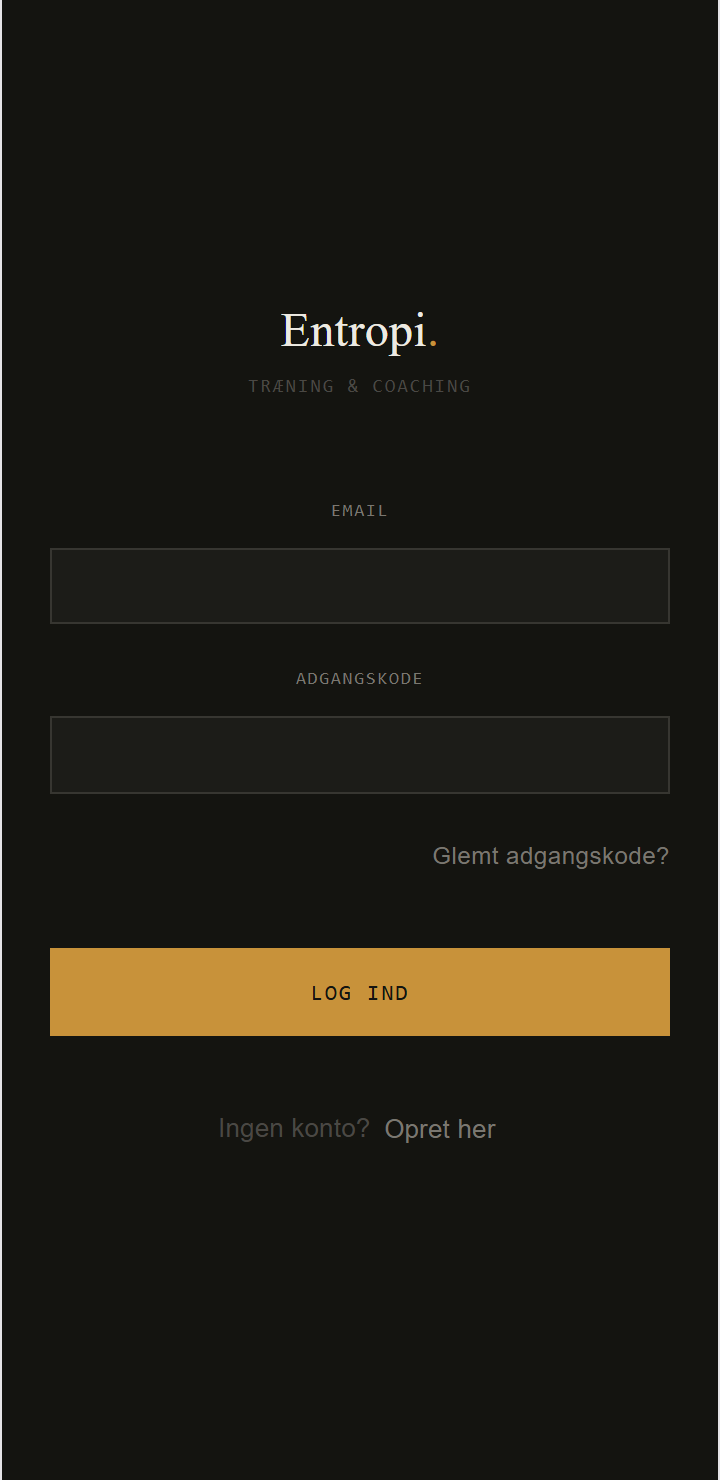
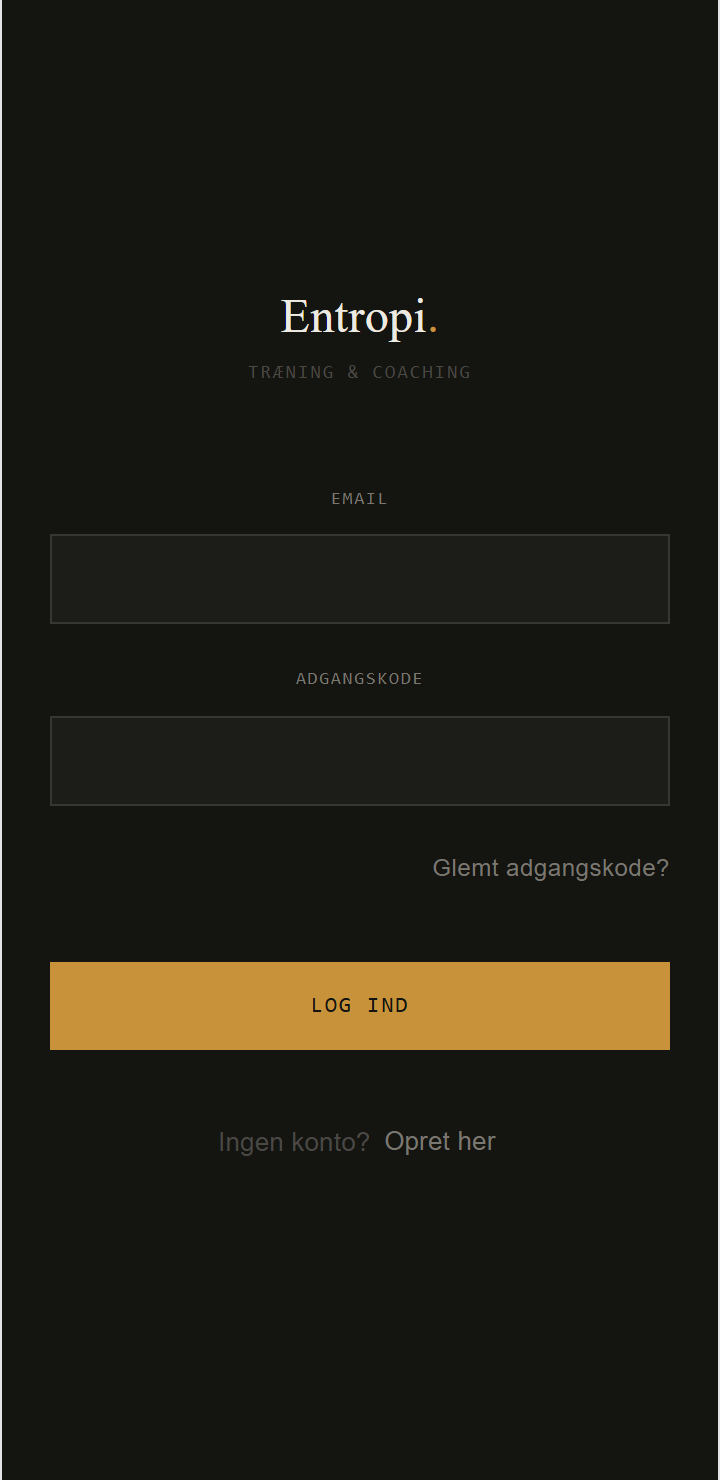
fix: loeft soevntimer-feltet og logins email/adgangskode til 44px (ordre 126 · commit 3)
Kun padding aendret, ikke skrift eller layout - fontStoerrelse, farver og
placering er uaendrede:
- src/Auth.jsx: email- og adgangskode-feltets lodrette padding 0.65rem ->
  0.85rem (340x39px -> ~45px paa iPhone 13/Android).
- src/AthleteView.jsx: check-in'ens soevntimer-felt (placeholder "timer")
  0.5rem -> 0.7rem lodret (90x39px -> ~45px).
- scripts/maal-app.mjs: check-in-harnessens kopi af samme inputstil holdt i
  sync, saa maal:app rent faktisk maaler den aendrede kode.

npm run maal:app: 0 trykflader under 44px paa alle tre profiler for login,
dagens pas, saet-logger, opvarmning og check-in. Eneste tilbagevaerende
"trykflader<44px" er Desktop::Videocoach-forside (3, uaendret) - Bhishaks
desktop-knapper, som ordren undtager. Foer/efter-skaermbilleder og tal i
outputs/maal-app/EFTER.md.

Claude-Session: https://claude.ai/code/session_01HdhD2yFFn1MSkH6a3mDiab

diff --git a/src/AthleteView.jsx b/src/AthleteView.jsx
@@ -4031,7 +4031,7 @@ export default function AthleteView({ session, onExitPreview, role, coachAthlete
                       type="number" min="0" max="24" step="0.5" placeholder="timer"
                       value={readinessInput.sleep}
                       onChange={e => setReadinessInput(p => ({ ...p, sleep: e.target.value }))}
-                      style={{ ...s.fieldInput, maxWidth: '90px', fontSize: '1.1rem', padding: '0.5rem 0.6rem', textAlign: 'center' }}
+                      style={{ ...s.fieldInput, maxWidth: '90px', fontSize: '1.1rem', padding: '0.7rem 0.6rem', textAlign: 'center' }}
                     />
                     <span style={{ fontFamily: "'IBM Plex Mono', monospace", fontSize: '0.62rem', color: '#7a7770', letterSpacing: '0.06em' }}>timer</span>
                   </div>

diff --git a/src/Auth.jsx b/src/Auth.jsx
@@ -141,7 +141,7 @@ export default function Auth() {
                 fontFamily: "'IBM Plex Sans', sans-serif",
                 fontSize: '0.9rem',
                 fontWeight: 300,
-                padding: '0.65rem 0.85rem',
+                padding: '0.85rem 0.85rem',
                 outline: 'none',
               }}
             />
@@ -174,7 +174,7 @@ export default function Auth() {
                   fontFamily: "'IBM Plex Sans', sans-serif",
                   fontSize: '0.9rem',
                   fontWeight: 300,
-                  padding: '0.65rem 0.85rem',
+                  padding: '0.85rem 0.85rem',
                   outline: 'none',
                 }}
               />

diff --git a/outputs/maal-app/EFTER.md b/outputs/maal-app/EFTER.md
@@ -1,37 +1,35 @@
 # Måling efter (Ordre 123)
 
-Målt 2026-09-12 07:28 UTC, 3 profiler × 6 skærme, med attrap-data (ingen atletdata).
+Målt 2026-09-12 13:12 UTC, 3 profiler × 6 skærme, med attrap-data (ingen atletdata).
 
-**Den autentificerede skal** (main + AthleteView-chunk — det SPA'en henter uanset hvilken atlet-fane der vises, "dagens pas"/"sæt-logger"/"opvarmning"/"check-in" deler denne): 658 KB (index-octlZmVS.js, AthleteView-DgDxmxYE.js, index-nqMpL4T3.css). Login og videocoach-forsiden er selvstændige og har deres egen sidevægt i tabellen nedenfor.
+**Den autentificerede skal** (main + AthleteView-chunk — det SPA'en henter uanset hvilken atlet-fane der vises, "dagens pas"/"sæt-logger"/"opvarmning"/"check-in" deler denne): 658 KB (index-CYhpEthV.js, AthleteView-9dvUZ7Z_.js, index-nqMpL4T3.css). Login og videocoach-forsiden er selvstændige og har deres egen sidevægt i tabellen nedenfor.
 
 _Ærlig grænse: "Dagens pas", "Sæt-logger", "Opvarmning" og "Check-in" er isolerede harnesses (ægte src/repsPrescription.js + src/warmup.js + ægte inline-stilarter kopieret fra AthleteView.jsx, syntetiske øvelser) — AthleteView.jsx kræver en levende Supabase-session for slet at boote (se scripts/verify-athlete-reps-per-set-mobile.mjs). Deres "sidevægt"/Perf-tal i tabellen er harness-isolerede, ikke den ægte AthleteView-bundtvægt (se skal-tallet ovenfor). Login og videocoach-forsiden er den ægte, uændrede app._
 
 | Profil | Skærm | Perf | A11y | Sidevægt (KB) | Axe-fejl | Trykflader <44px | Vandret scroll | Tekst ud af boks |
 | --- | --- | --- | --- | --- | --- | --- | --- | --- |
-| iPhone 13 | Login | 65 | 87 | 415 | 1 | 2 | nej | 0 |
+| iPhone 13 | Login | 65 | 87 | 415 | 1 | 0 | nej | 0 |
 | iPhone 13 | Dagens pas | 100 | 91 | 8 | 1 | 0 | nej | 0 |
 | iPhone 13 | Sæt-logger (interval-reps) | 100 | 92 | 8 | 1 | 0 | nej | 0 |
 | iPhone 13 | Opvarmning | 100 | 86 | 14 | 1 | 0 | nej | 0 |
-| iPhone 13 | Videocoach-forside (uden video) | 71 | 93 | 537 | 0 | 0 | nej | 0 |
-| iPhone 13 | Check-in (parathed) | 100 | 87 | 14 | 1 | 1 | nej | 0 |
-| Android 360×740 | Login | 73 | 87 | 415 | 1 | 2 | nej | 0 |
+| iPhone 13 | Videocoach-forside (uden video) | 71 | 93 | 541 | 0 | 0 | nej | 0 |
+| iPhone 13 | Check-in (parathed) | 99 | 87 | 14 | 1 | 0 | nej | 0 |
+| Android 360×740 | Login | 74 | 87 | 415 | 1 | 0 | nej | 0 |
 | Android 360×740 | Dagens pas | 100 | 91 | 8 | 1 | 0 | nej | 0 |
 | Android 360×740 | Sæt-logger (interval-reps) | 100 | 92 | 8 | 1 | 0 | nej | 0 |
 | Android 360×740 | Opvarmning | 100 | 86 | 14 | 1 | 0 | nej | 0 |
-| Android 360×740 | Videocoach-forside (uden video) | 71 | 93 | 537 | 0 | 0 | nej | 0 |
-| Android 360×740 | Check-in (parathed) | 100 | 87 | 14 | 1 | 1 | nej | 0 |
+| Android 360×740 | Videocoach-forside (uden video) | 71 | 93 | 541 | 0 | 0 | nej | 0 |
+| Android 360×740 | Check-in (parathed) | 100 | 87 | 14 | 1 | 0 | nej | 0 |
 | Desktop 1280×800 | Login | — | — | 415 | 1 | 0 | nej | 0 |
 | Desktop 1280×800 | Dagens pas | — | — | 8 | 1 | 0 | nej | 0 |
 | Desktop 1280×800 | Sæt-logger (interval-reps) | — | — | 8 | 1 | 0 | nej | 0 |
 | Desktop 1280×800 | Opvarmning | — | — | 14 | 1 | 0 | nej | 0 |
-| Desktop 1280×800 | Videocoach-forside (uden video) | — | — | 547 | 0 | 3 | nej | 0 |
-| Desktop 1280×800 | Check-in (parathed) | — | — | 14 | 1 | 1 | nej | 0 |
+| Desktop 1280×800 | Videocoach-forside (uden video) | — | — | 551 | 0 | 3 | nej | 0 |
+| Desktop 1280×800 | Check-in (parathed) | — | — | 14 | 1 | 0 | nej | 0 |
 
 ## Detaljer (trykflader og axe-fund under 44px / kritisk / alvorlig)
 
 ### iPhone 13 · Login
-- Trykflade: "(uden tekst)" — 340×39px
-- Trykflade: "(uden tekst)" — 340×39px
 - Axe (serious): color-contrast — Elements must meet minimum color contrast ratio thresholds (6 elementer)
 
 ### iPhone 13 · Dagens pas
@@ -44,12 +42,9 @@ _Ærlig grænse: "Dagens pas", "Sæt-logger", "Opvarmning" og "Check-in" er isol
 - Axe (serious): color-contrast — Elements must meet minimum color contrast ratio thresholds (11 elementer)
 
 ### iPhone 13 · Check-in (parathed)
-- Trykflade: "timer" — 90×39px
 - Axe (serious): color-contrast — Elements must meet minimum color contrast ratio thresholds (21 elementer)
 
 ### Android 360×740 · Login
-- Trykflade: "(uden tekst)" — 310×39px
-- Trykflade: "(uden tekst)" — 310×39px
 - Axe (serious): color-contrast — Elements must meet minimum color contrast ratio thresholds (6 elementer)
 
 ### Android 360×740 · Dagens pas
@@ -62,7 +57,6 @@ _Ærlig grænse: "Dagens pas", "Sæt-logger", "Opvarmning" og "Check-in" er isol
 - Axe (serious): color-contrast — Elements must meet minimum color contrast ratio thresholds (11 elementer)
 
 ### Android 360×740 · Check-in (parathed)
-- Trykflade: "timer" — 90×39px
 - Axe (serious): color-contrast — Elements must meet minimum color contrast ratio thresholds (21 elementer)
 
 ### Desktop 1280×800 · Login
@@ -83,27 +77,26 @@ _Ærlig grænse: "Dagens pas", "Sæt-logger", "Opvarmning" og "Check-in" er isol
 - Trykflade: "Eksport" — 78×36px
 
 ### Desktop 1280×800 · Check-in (parathed)
-- Trykflade: "timer" — 90×39px
 - Axe (serious): color-contrast — Elements must meet minimum color contrast ratio thresholds (21 elementer)
 
 
 ## Før → efter
 
-- **iPhone 13::Login**: perf 66 → 65, a11y 75 → 87, sidevægt 415 KB, axe-fejl 2 → 1, trykflader<44px 3 → 2
+- **iPhone 13::Login**: perf 66 → 65, a11y 75 → 87, sidevægt 415 KB, axe-fejl 2 → 1, trykflader<44px 3 → 0
 - **iPhone 13::Dagens pas**: perf 100, a11y 91, sidevægt 8 KB, axe-fejl 1, trykflader<44px 3 → 0
 - **iPhone 13::Sæt-logger (interval-reps)**: perf 100, a11y 75 → 92, sidevægt 8 KB, axe-fejl 2 → 1, trykflader<44px 0
 - **iPhone 13::Opvarmning**: perf 100, a11y 86, sidevægt 14 KB, axe-fejl 1, trykflader<44px 10 → 0
-- **iPhone 13::Videocoach-forside (uden video)**: perf 71, a11y 93, sidevægt 537 KB, axe-fejl 0, trykflader<44px 0
-- **iPhone 13::Check-in (parathed)**: perf 100, a11y 87, sidevægt 13 → 14 KB, axe-fejl 1, trykflader<44px 5 → 1
-- **Android 360×740::Login**: perf 74 → 73, a11y 75 → 87, sidevægt 415 KB, axe-fejl 2 → 1, trykflader<44px 3 → 2
+- **iPhone 13::Videocoach-forside (uden video)**: perf 71, a11y 93, sidevægt 537 → 541 KB, axe-fejl 0, trykflader<44px 0
+- **iPhone 13::Check-in (parathed)**: perf 100 → 99, a11y 87, sidevægt 13 → 14 KB, axe-fejl 1, trykflader<44px 5 → 0
+- **Android 360×740::Login**: perf 74, a11y 75 → 87, sidevægt 415 KB, axe-fejl 2 → 1, trykflader<44px 3 → 0
 - **Android 360×740::Dagens pas**: perf 100, a11y 91, sidevægt 8 KB, axe-fejl 1, trykflader<44px 3 → 0
 - **Android 360×740::Sæt-logger (interval-reps)**: perf 100, a11y 75 → 92, sidevægt 8 KB, axe-fejl 2 → 1, trykflader<44px 0
 - **Android 360×740::Opvarmning**: perf 100, a11y 86, sidevægt 14 KB, axe-fejl 1, trykflader<44px 10 → 0
-- **Android 360×740::Videocoach-forside (uden video)**: perf 78 → 71, a11y 93, sidevægt 537 KB, axe-fejl 0, trykflader<44px 0
-- **Android 360×740::Check-in (parathed)**: perf 100, a11y 87, sidevægt 13 → 14 KB, axe-fejl 1, trykflader<44px 5 → 1
+- **Android 360×740::Videocoach-forside (uden video)**: perf 78 → 71, a11y 93, sidevægt 537 → 541 KB, axe-fejl 0, trykflader<44px 0
+- **Android 360×740::Check-in (parathed)**: perf 100, a11y 87, sidevægt 13 → 14 KB, axe-fejl 1, trykflader<44px 5 → 0
 - **Desktop 1280×800::Login**: perf undefined, a11y undefined, sidevægt 415 KB, axe-fejl 2 → 1, trykflader<44px 0
 - **Desktop 1280×800::Dagens pas**: perf undefined, a11y undefined, sidevægt 8 KB, axe-fejl 1, trykflader<44px 3 → 0
 - **Desktop 1280×800::Sæt-logger (interval-reps)**: perf undefined, a11y undefined, sidevægt 8 KB, axe-fejl 2 → 1, trykflader<44px 0
 - **Desktop 1280×800::Opvarmning**: perf undefined, a11y undefined, sidevægt 14 KB, axe-fejl 1, trykflader<44px 10 → 0
-- **Desktop 1280×800::Videocoach-forside (uden video)**: perf undefined, a11y undefined, sidevægt 547 KB, axe-fejl 0, trykflader<44px 3
-- **Desktop 1280×800::Check-in (parathed)**: perf undefined, a11y undefined, sidevægt 13 → 14 KB, axe-fejl 1, trykflader<44px 5 → 1
+- **Desktop 1280×800::Videocoach-forside (uden video)**: perf undefined, a11y undefined, sidevægt 547 → 551 KB, axe-fejl 0, trykflader<44px 3
+- **Desktop 1280×800::Check-in (parathed)**: perf undefined, a11y undefined, sidevægt 13 → 14 KB, axe-fejl 1, trykflader<44px 5 → 0
